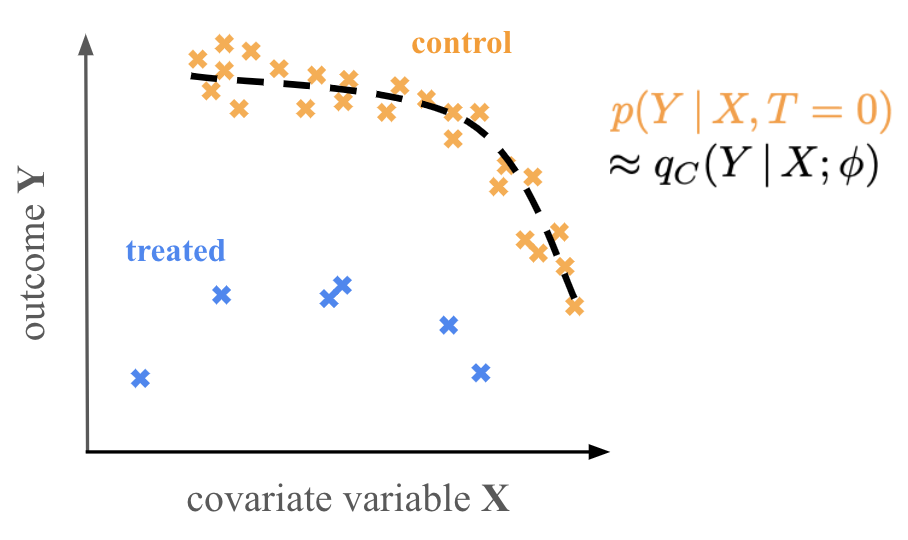
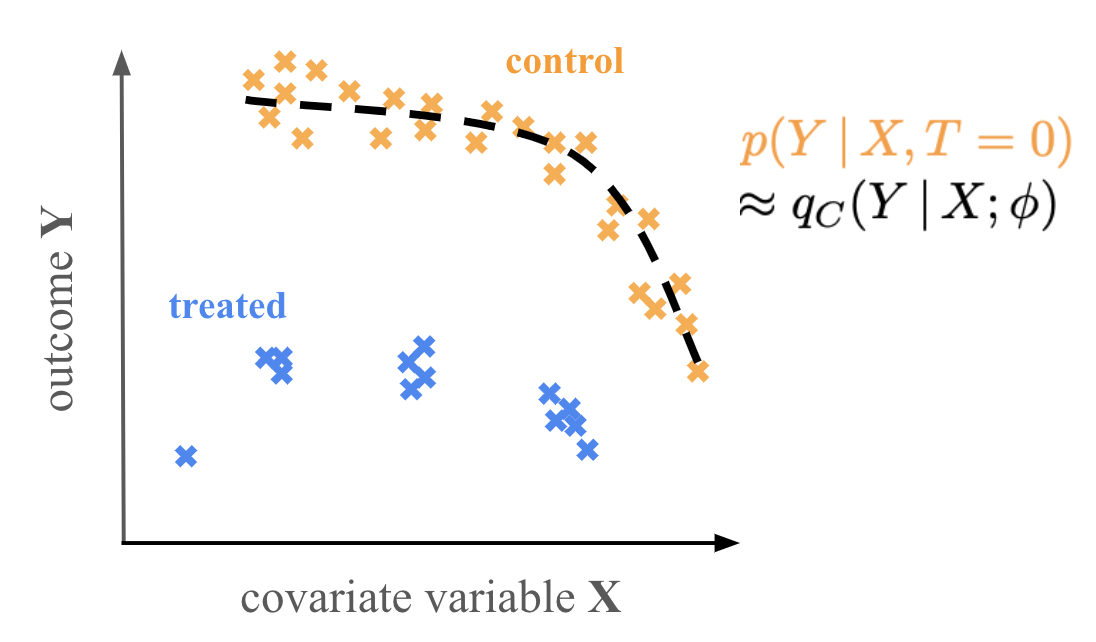
detailed explanation of the scenioars'

diff --git a/README.md b/README.md
@@ -1,10 +1,7 @@
 # `causalflow`
-[![arXiv](https://img.shields.io/badge/arxiv-2312.03843-b31b1b.svg)](https://arxiv.org/abs/2312.03843)
-and [Cano & Hahn (2024) Nature Accepted]().
+[![arXiv](https://img.shields.io/badge/arxiv-2312.03843-b31b1b.svg)](https://arxiv.org/abs/2312.03843) and [Cano & Hahn (2024) Nature Comm. Accepted]().
 
-A machine learning framework for measuring the causal treatment effect using
-normalizing flows. `causalflow` estimates the Conditional Average Treatment 
-Effect (CATE) for some treatment `T`
+A machine learning framework for measuring the causal treatment effect using normalizing flows. `causalflow` estimates the Conditional Average Treatment Effect (CATE) for some treatment `T`
 
 
 ## installation 
@@ -14,6 +11,46 @@ Effect (CATE) for some treatment `T`
 ## `causalflow` scenarios
 
 ### Scenario A
-![plot](./doc/images/scenarioa.png)
-![plot](./doc/images/scenariob.png)
-![plot](./doc/images/scenarioc.png)
+
+Scenario A should be used when your treated and control samples are well sampled in X-space. This is the idea scenario for `causalflow`. 
+
+<img src="./doc/images/scenarioa.png" alt="drawing" width="400"/>
+
+Estimate the distribution of the outcome `Y` for both the treated and control samples. Then estimate the CATE as: 
+$${\rm CATE} = \int {\rm Y}\,p(Y\,|\,X,T=1)\,{\rm d}{\rm Y} - \int {\rm Y}\,p(Y\,|\,X,T=0)\,{\rm d}{\rm Y} \approx \int {\rm Y}\,q_T(Y\,|\,X;\phi)\,{\rm d}{\rm Y} - \int {\rm Y}\,q_C(Y\,|\,X;\phi)\,{\rm d}{\rm Y} $$. 
+
+In this Senario A, you can evaluate the CATE for any coviarate `X` as long as it's within the support. `causalflow` checks this by estimating the X distribution of the control and treated samples. 
+
+<img src="./doc/images/supporta.png" alt="drawing" width="400"/>
+
+In practice, for a given `X'`, `causalflow`checks whether `Q_C(X')` and `Q_T(X')` is above some user set threshold. Higher threshold is more conservative.
+
+### Scenario B
+
+Scenario B should be used when you have one sample (either treated or control) that's well sampled in X-space but the other sample is more sparsely sampled or stratified.  
+
+<img src="./doc/images/scenariob.png" alt="drawing" width="400"/>
+
+Estimate the distribution of the outcome `Y` for a base (either treated/control) sample. Then the conditional treatment effect (CTE) for sample $(X', Y')$ in the other sparse (control/treated) sample is estimated as: 
+$${\rm CTE} = Y' -  \int {\rm Y}\,p(Y\,|\,X,T=0)\,{\rm d}{\rm Y} \approx Y' -  \int {\rm Y}\,q_C(Y\,|\,X;\phi)\,{\rm d}{\rm Y} $$
+
+Note CTE is *not* the CATE since this is a treatment effect for individual samples. However, if your other sample has enough data with e.g. clustered $X$s, then you can average the CTE to approximate CATE: 
+
+$${\rm CATE} \approx \frac{1}{N}\sum\limits_{{\rm X'}\sim \{{\rm X}\,{\rm cluster}\}} {\rm CTE}(\rm X')$$
+
+We caution that the accuracte of the CATE estimate will depend on the sample size of the chosen clusters. Also `causalflow` can only evaluate the CTE if X' is within the support of the base distribution. We use the same support test as in Scenario A with a user specified threshold. 
+
+### Scenario C
+
+Scenario C should be used when you a continuous treatment that varies in amplitude — i.e. there is no binary treated or control sample. 
+
+<img src="./doc/images/scenarioc.png" alt="drawing" width="400"/>
+
+`causalflow` can measure the CATE for some specified fiducial covariate X_fid and treatment T_fid for some specified "treatment" of magnitude dT. CATE is estimated as 
+
+$${\rm CATE}(X_{\rm fid}) = \int {\rm Y}\,p(Y\,|\,X_{\rm fid}, T_{\rm fid} + \Delta T)\,{\rm d}{\rm Y} - \int {\rm Y}\,p(Y\,|\,X_{\rm fid}, T_{\rm fid})\,{\rm d}{\rm Y} \approx \int {\rm Y}\,q(Y\,|\,X_{\rm fid}, T_{\rm fid}+\Delta T;\phi)\,{\rm d}{\rm Y} - \int {\rm Y}\,q(Y\,|\,X_{\rm fid}, T_{\rm fid};\phi)\,{\rm d}{\rm Y}$$
+
+`causalflow` can only evaluate the CATE if (X_fid, T_fid) and (X_fid, T_fid + dT) is within the support of the dataset. We use the same support test as Scenario A with a user specified threshold. 
+
+
+
